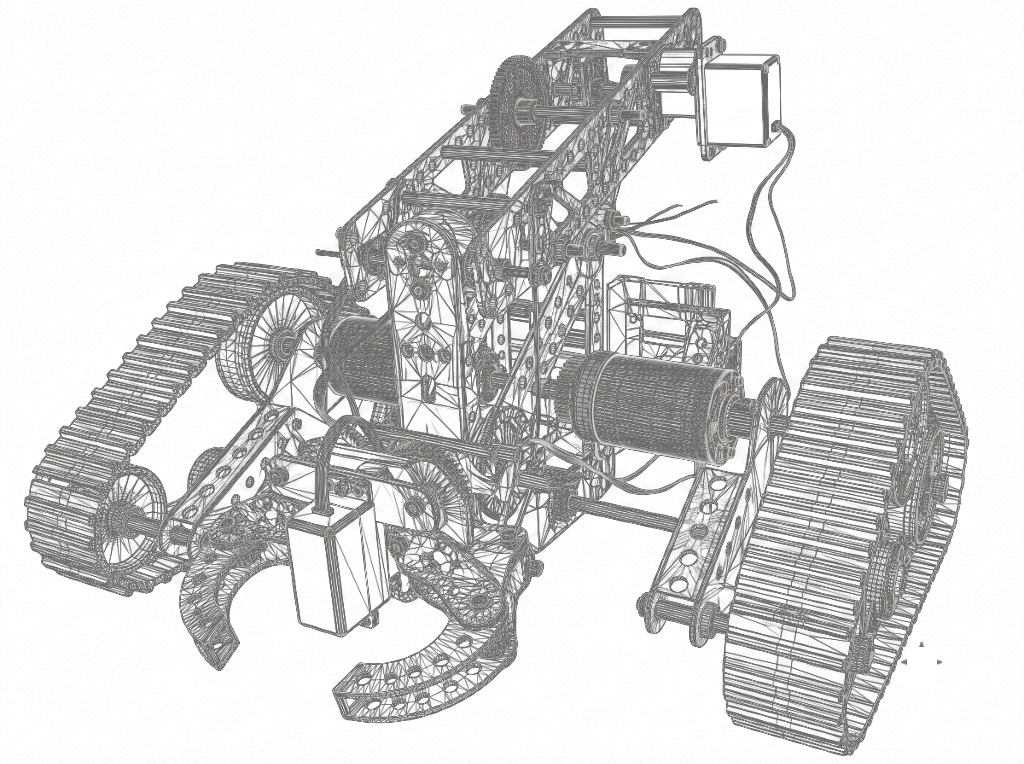
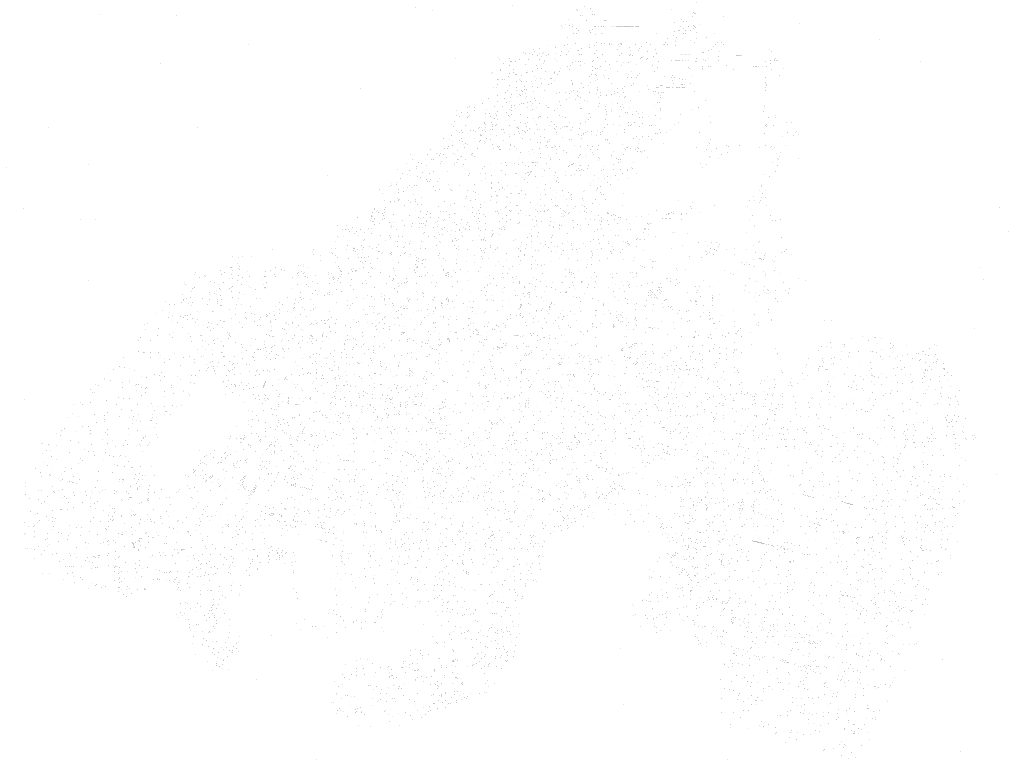
Refactor code structure for improved readability and maintainability

diff --git a/frontend/src/components/AboutHeroSection.tsx b/frontend/src/components/AboutHeroSection.tsx
@@ -81,20 +81,11 @@ export default function AboutHeroSection() {
                 {/* Core Society Description */}
                 <div className="space-y-3 font-sans text-xs sm:text-[13px] leading-relaxed text-slate-200 font-normal drop-shadow-[0_2px_4px_rgba(0,0,0,0.95)]">
                   <p>
-                    Founded over two decades ago at{' '}
-                    <strong className="text-white font-semibold">
-                      Birla Institute of Technology, Mesra
-                    </strong>{' '}
-                    under the Department of Production and Industrial Engineering,{' '}
-                    <strong className="text-[#FF9FFC] font-semibold">Robolution</strong> (Team
-                    Pratyumnis) represents Eastern India&apos;s apex collegiate robotics
-                    collective.
+                    Founded in 2001, <strong className="text-[#FF9FFC] font-semibold">Robolution</strong> is the official robotics and innovation club of{' '}
+                    <strong className="text-white font-semibold">BIT Mesra</strong>, one of India&apos;s leading engineering institutions.
                   </p>
                   <p>
-                    We engineer battle-tested mechatronics systems—from heavy-hitting 15kg/30kg
-                    combat battlebots built with hardened 4340 alloy steel drum spinners and Hardox
-                    ground feeder wedgelets, to autonomous navigation rovers and competition machines
-                    engineered for ABU Robocon.
+                    Also known as <strong className="text-white font-semibold">Team Pratyumnis</strong>, we bring together expertise in mechanical design, electronics, and programming to develop innovative robotic systems that compete at national and international levels.
                   </p>
                 </div>
 

diff --git a/frontend/src/app/page.tsx b/frontend/src/app/page.tsx
@@ -242,7 +242,7 @@ export default function Home() {
                     fill
                     priority
                     sizes="(max-width: 768px) 100vw, (max-width: 1200px) 50vw, 45vw"
-                    className="object-contain filter contrast-125 brightness-110 transition-transform duration-700 ease-out group-hover:scale-[1.02]"
+                    className="object-contain filter contrast-125 brightness-115 drop-shadow-[0_0_16px_rgba(255,255,255,0.22)] transition-transform duration-700 ease-out group-hover:scale-[1.03]"
                   />
                 </div>
 
